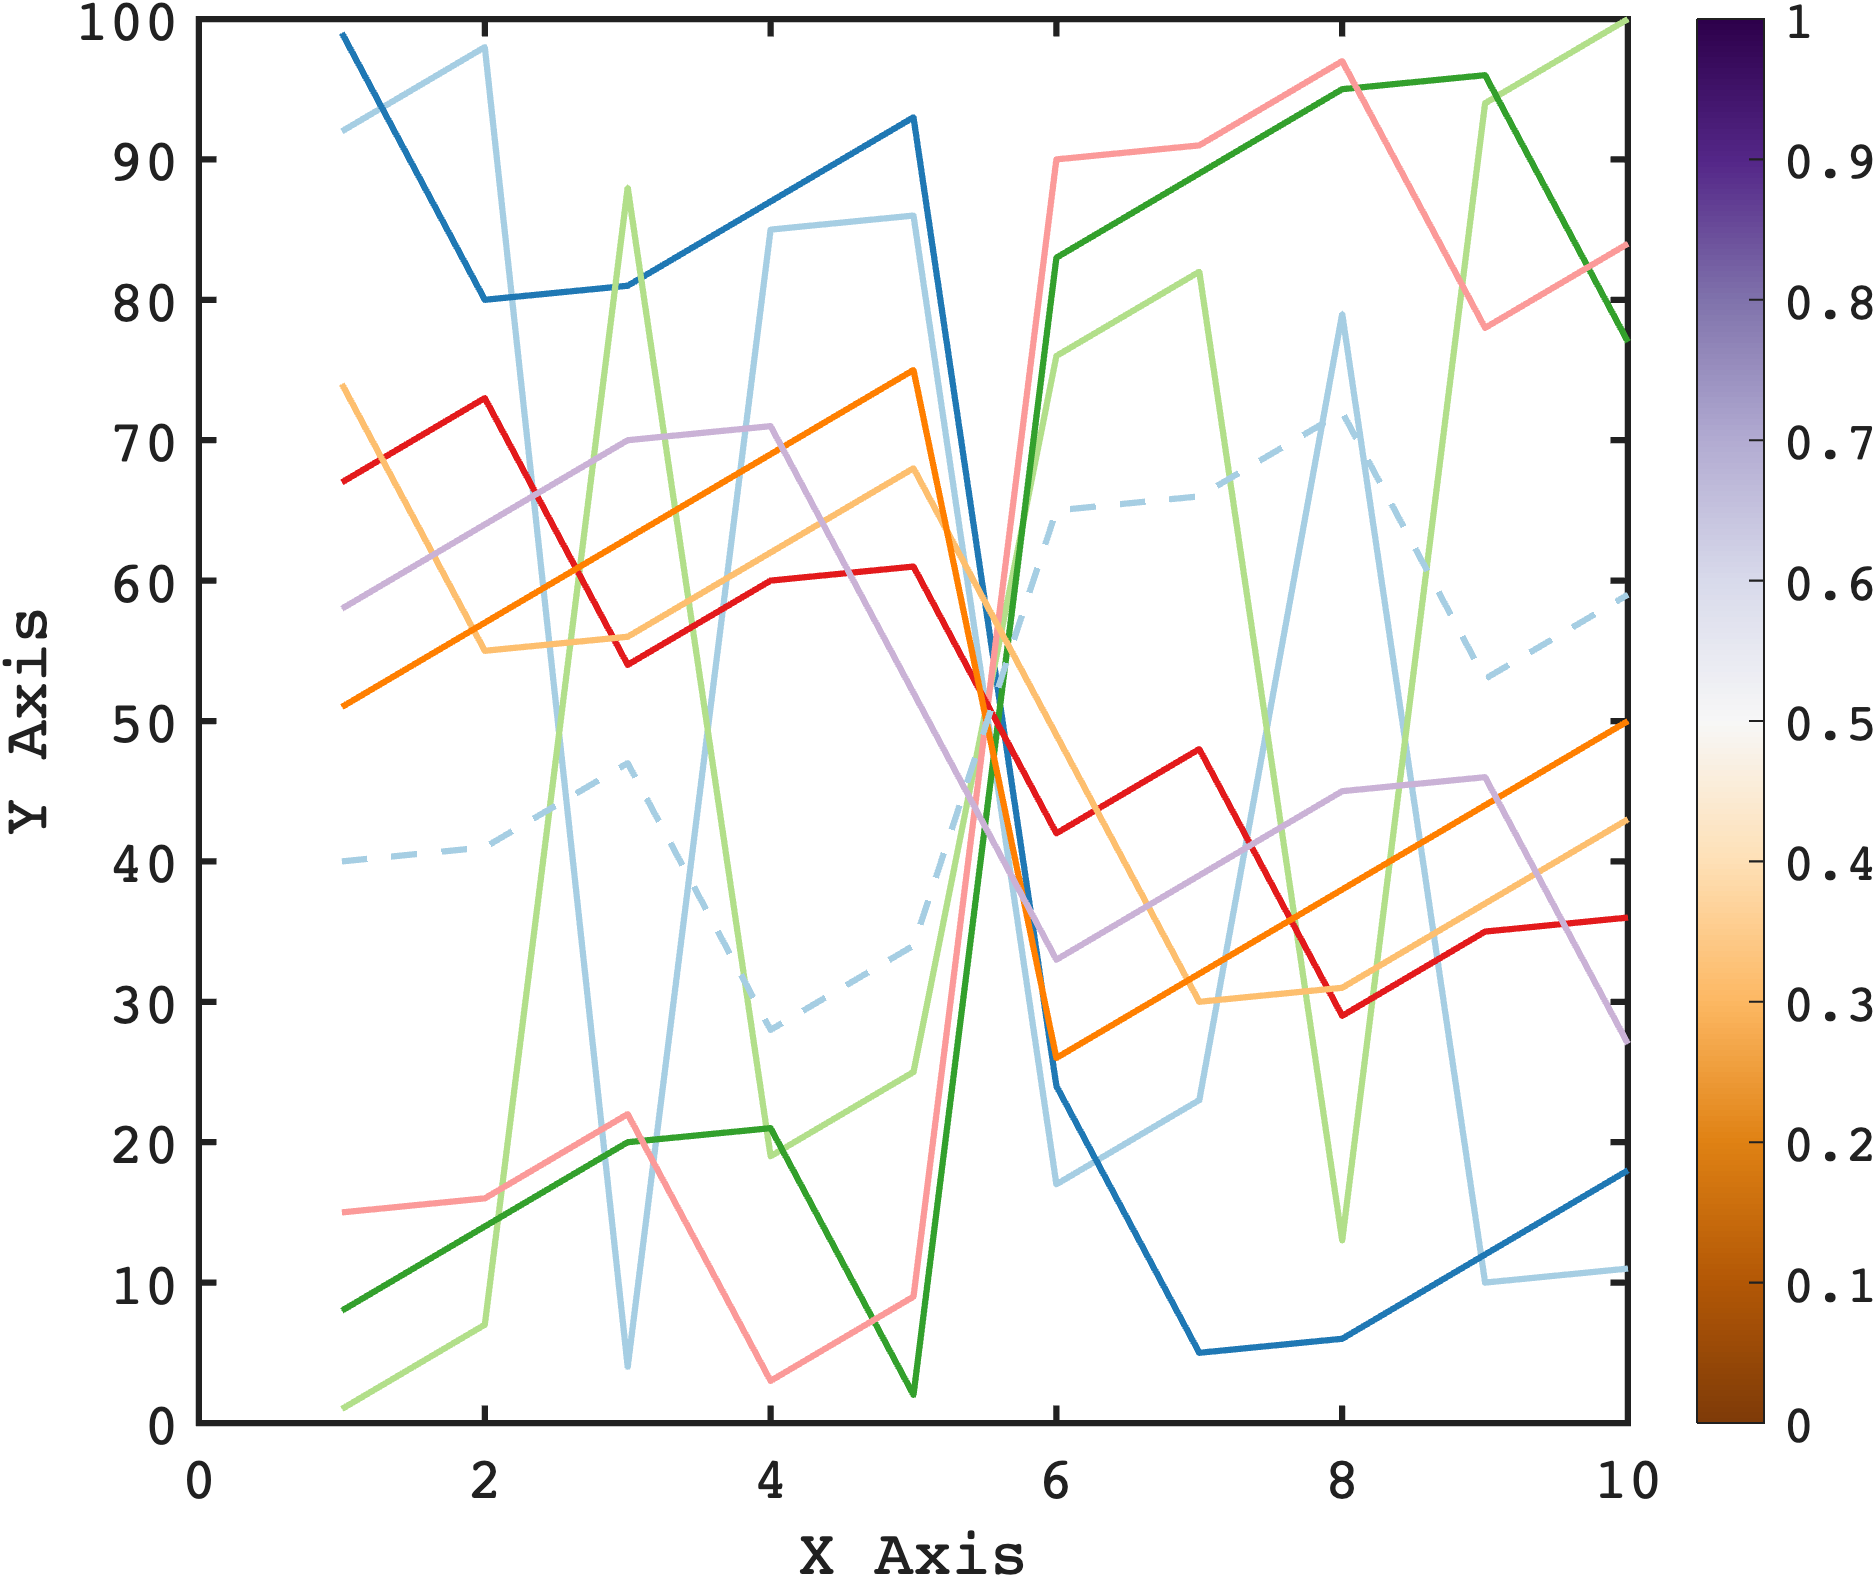
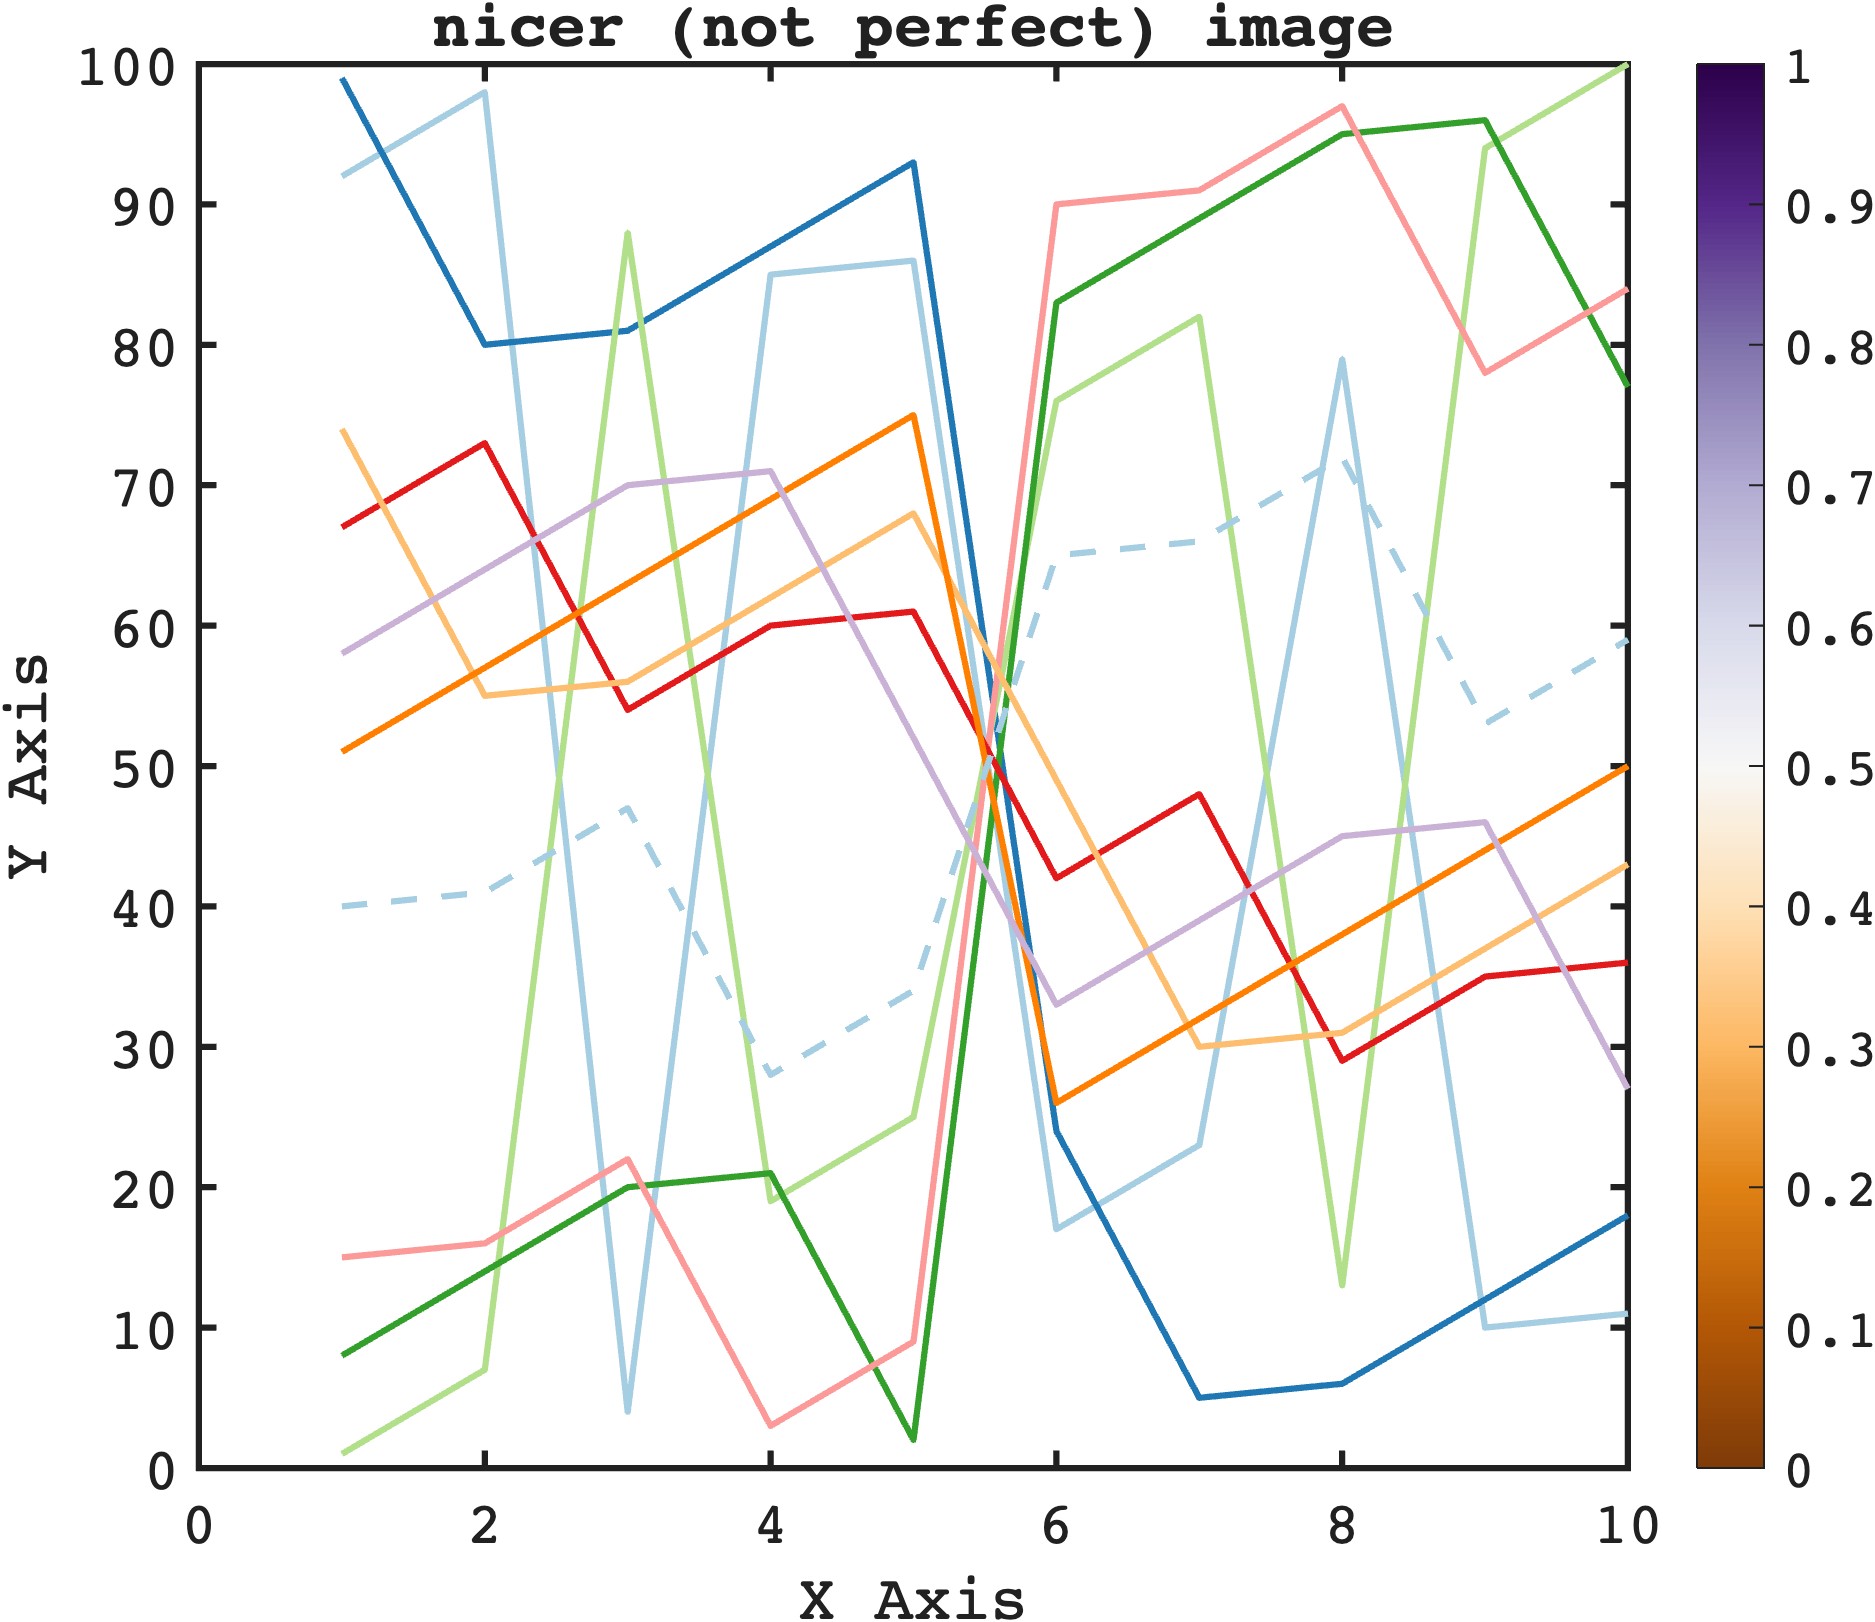
added readme

diff --git a/README.md b/README.md
@@ -16,6 +16,9 @@ Or
 Just add the startup.m file to your working directory, and run it before plotting the main figures. 
 
 here is an example
+```matlab
+figure;plot(magic(10)), colorbar; xlabel('X Axis'), ylabel('Y Axis')
+```
 
  <img src="images/myfigure.png" width="500" alt="Example Plot">
 